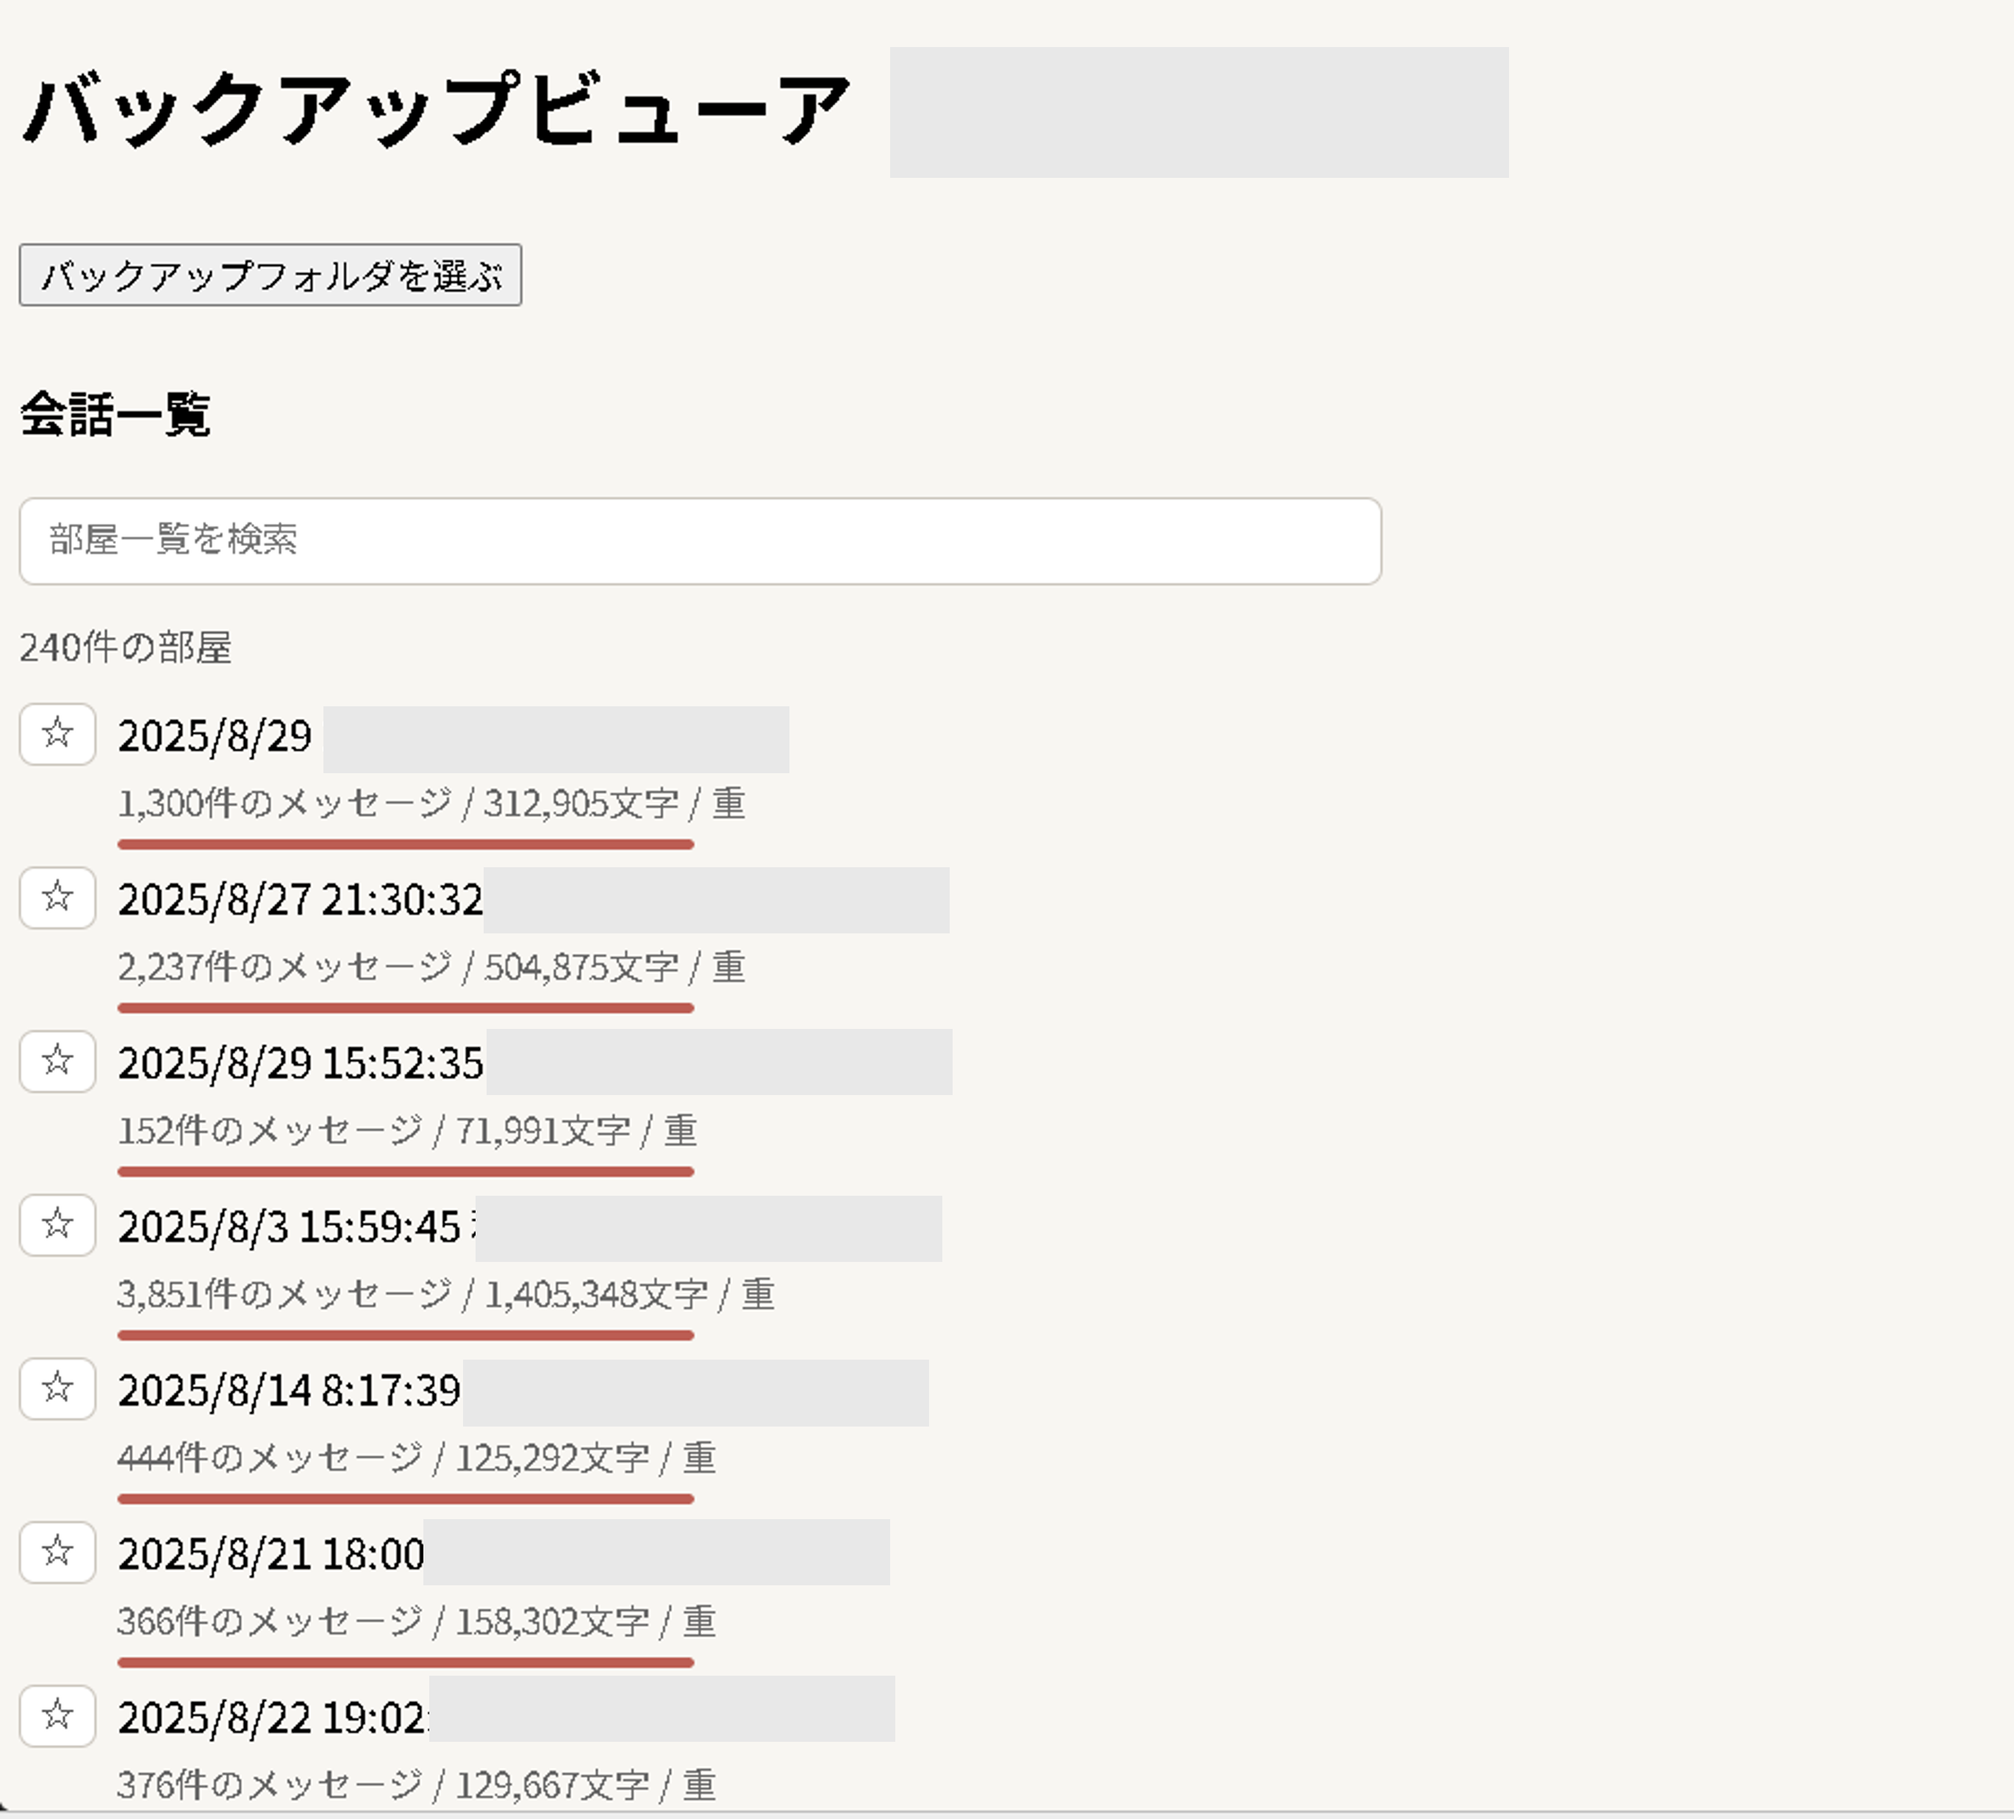
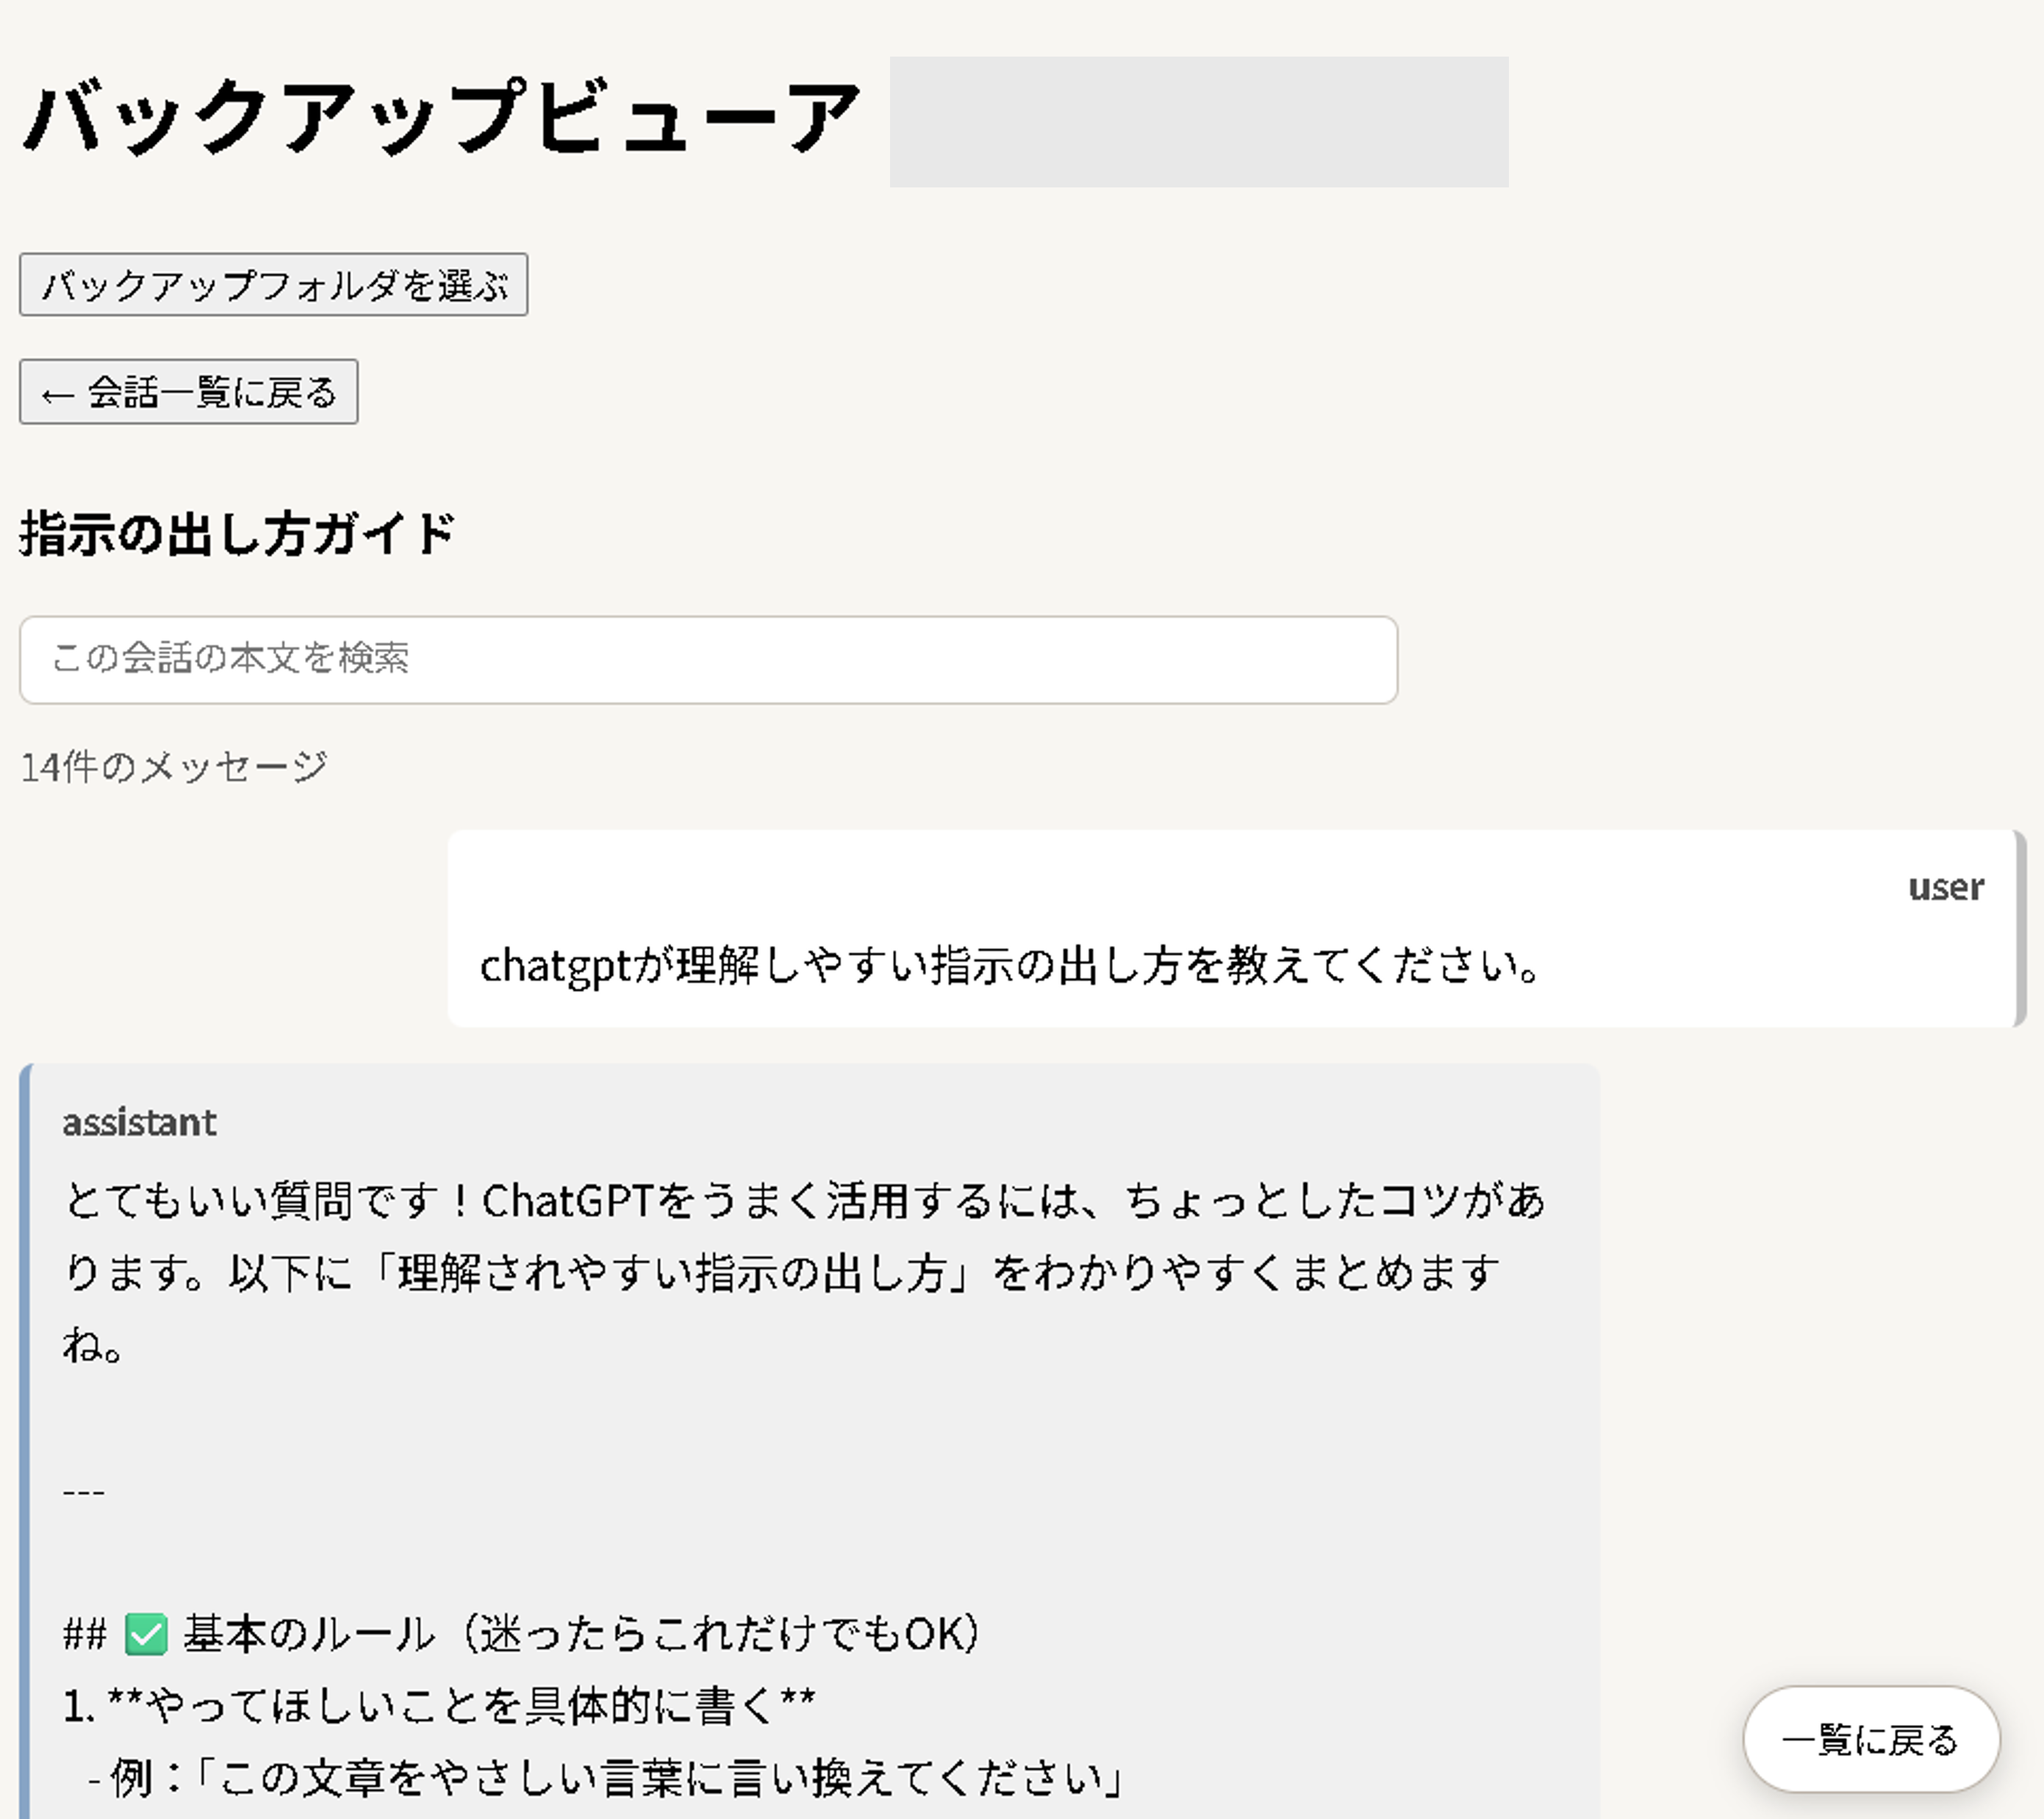
docs: update README and add image view screenshot

diff --git a/README.md b/README.md
@@ -54,7 +54,13 @@ This tool reads your `conversations.json` file and lets you browse your conversa
 
 ---
 
+---
+
 ## 📸 Screenshots
+
+### Image View
+
+![image-view](images/Sample3.png)
 
 ### List view
 
@@ -63,6 +69,8 @@ This tool reads your `conversations.json` file and lets you browse your conversa
 ### Detail view
 
 ![detail](images/Sample1.png)
+
+---
 
 ---
 
